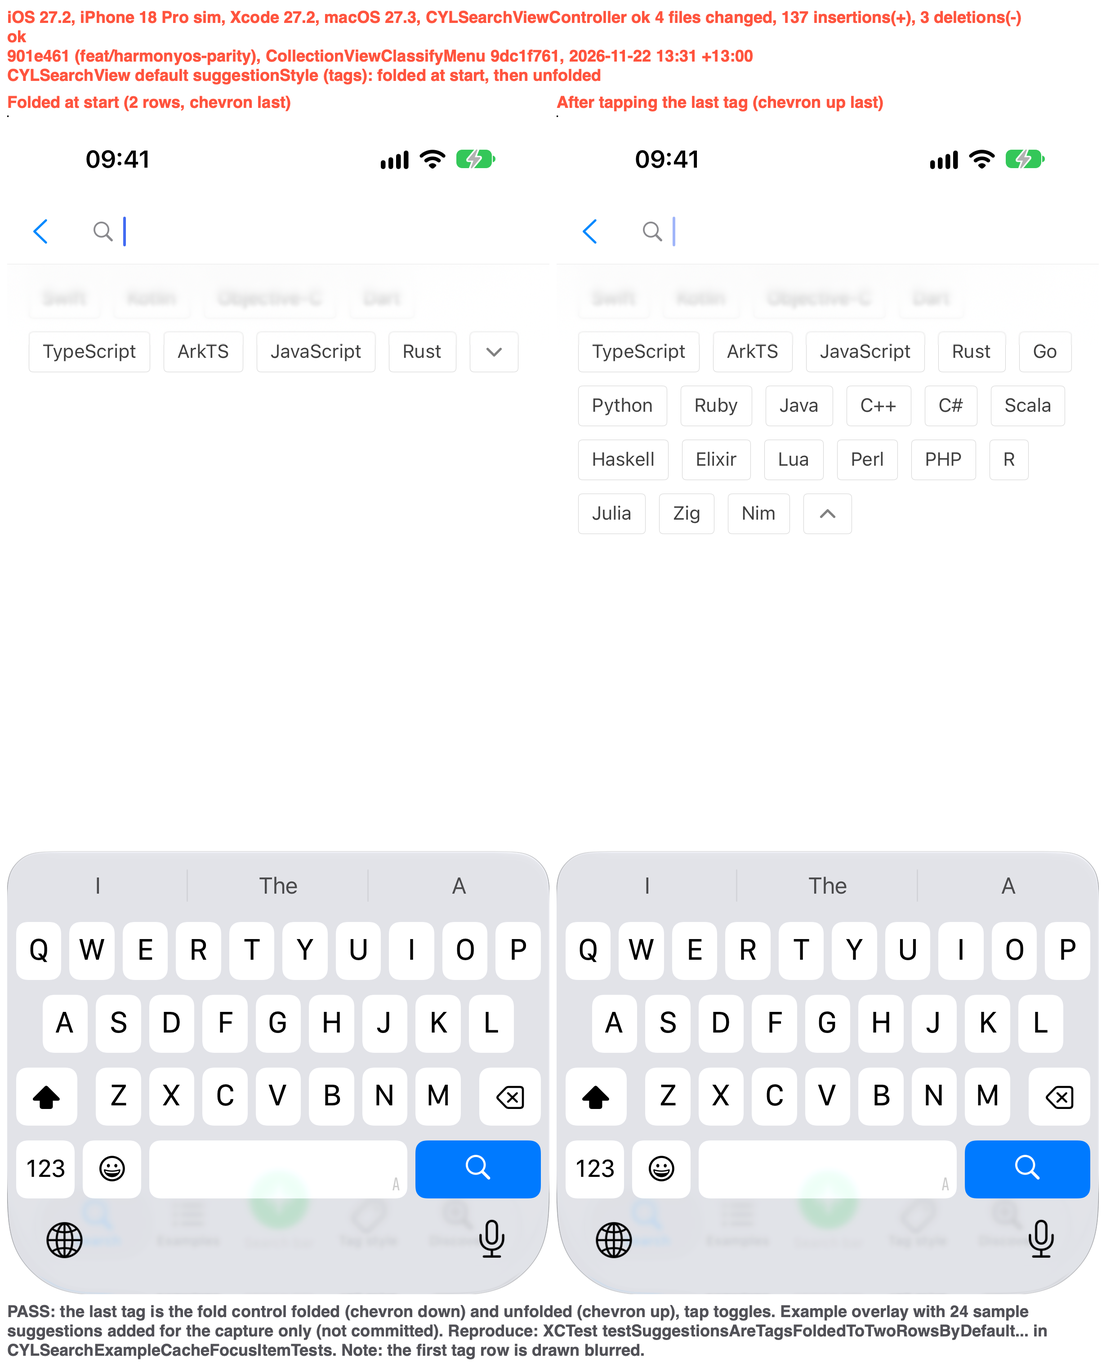
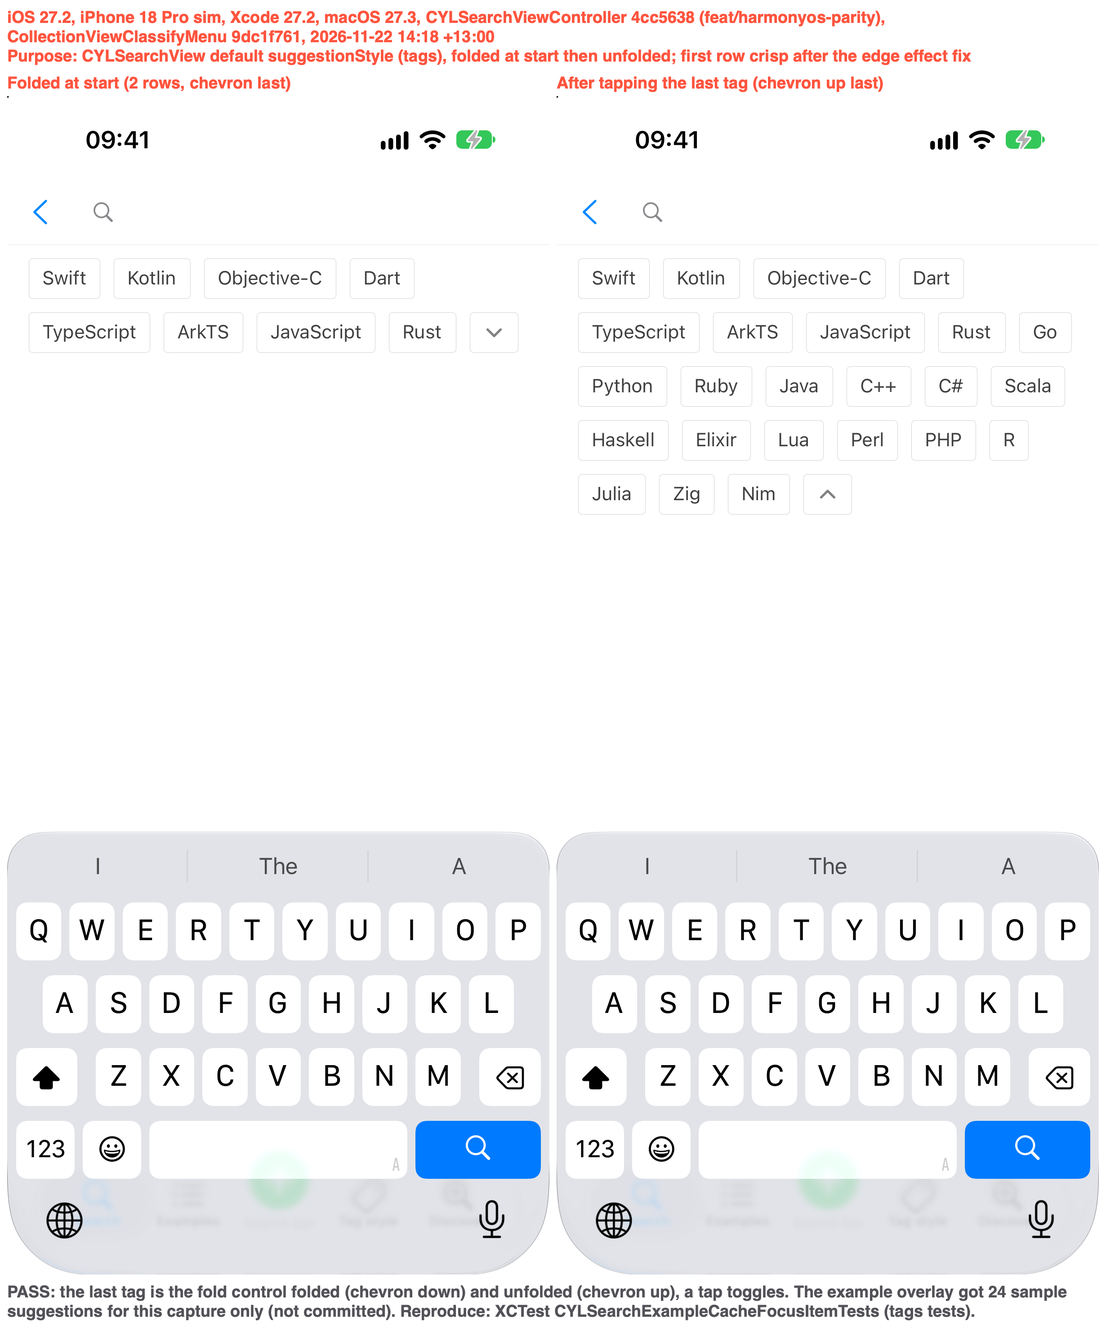
docs: 📝 tags default: review fixes, clean screenshots
Screenshots regenerated with clean headers (the iOS first row is crisp after the edge effect
fix); results of the three iOS simulators, React Native jest and tsc; the Android 5 px row cut
is traced to CollectionViewClassifyMenu's CYLTagListView and left as a TODO.

By  @ChenYilong <luohanchenyilong@163.com>

diff --git a/docs/tag-view-suggestions.md b/docs/tag-view-suggestions.md
@@ -293,6 +293,238 @@ CollectionViewClassifyMenu).
   tap on it toggles the folding. **All tags fit the folded rows: the packaged control hides itself** (`CYLTagListView.canFoldSection`
   is false when the rows do not exceed the folded rows; the mini program and HarmonyOS follow the same rule). The core adds no
   control of its own; a different behavior belongs in CollectionViewClassifyMenu. Tests pin the current behavior.
+- Tests (rerun 2026-11-22 after the iOS fix): iOS 17.5 sim 144 of 144; iOS 27.2 sim 144 tests, 1 flaky failure (`testI4ShortListHeaderSettlesFullyShownOrHidden`, passes alone); iOS 26.5 sim 144 tests, 1 failure (`CYLSearchBarStyleTests.testB7CancelDoesNotJitterWhenLeavingSearch`: a bar-only test that never touches `CYLSearchView`, fails alone too, not caused by this change; another session handles B7);
+  Android `:cylsearch:testDebugUnitTest` and `:app:testDebugUnitTest` green; mini program `npm test` 86 of 86; Flutter `flutter test` 18 of 18; React Native `jest` 10 of 10 and `tsc` clean;
+  HarmonyOS hypium on the local Mac emulator (arm64): `CYLSearchCore` 22 of 22 (new `suggestionStyleDefaultsToFoldedTags`), `CYLSearchQMUIPort` 12 of 12; the `CYLSearchUI` suite hung (no result after 100 s, also while an older `aa test` runner stayed hung on the emulator; not attributed to this change, rerun needed).
+- iOS first-row blur: FIXED in the core (commit `4cc5638`). Cause: on iOS 26 and later the tag list's scroll view draws a scroll edge effect (a blur) on its top edge, which blurred the first tag row right under the bar. `CYLSearchView` now hides `topEdgeEffect` of the tag list's scroll views (`#available(iOS 26.0, *)`); the frame check shows the tag list starts below the divider. Test: `testTagSuggestionsStartBelowTheSearchBarWithoutAnEdgeBlur`.
+- Android first and last tag rows cut by about 5 px: NOT fixed, located in CollectionViewClassifyMenu's Android `CYLTagListView` (not the core's layout). The rows between are whole, and the first row's top edge and the last row's bottom edge are missing, as if the list's content were taller than its measured height and scrolled by about 5 px. A margin or padding change in `CYLSearchView` made no difference (tried, reverted). Next step, in CollectionViewClassifyMenu: compare `heightThatFitsWidth` with `computeFrames`' `totalHeight` for a folded inline fold control.
+- Screenshots (originals), from top to bottom: list style, tag style, tag style after tapping "Android".
+
+    ![List style](assets/android-suggestions-list-style.png)
+
+    ![Tag style](assets/android-suggestions-tag-style.png)
+
+    ![Tag tapped](assets/android-suggestions-tag-picked.png)
+
+| Field | Value |
+|:---|:---|
+| Platform | Android (Kotlin, `android/merged`) |
+| Host | macOS 27.3 (26C5035r), JDK 17.0.21, Gradle 9.3.1, AGP 8.7.3, Kotlin 2.0.21 |
+| Emulator | `CYL_API35_arm64`, Android 15 (API 35), arm64-v8a, 1080 × 2400 |
+| SDK | compileSdk / targetSdk 35, minSdk 23 |
+| Repository | [`ffac758`](https://github.com/ChenYilong/CYLSearchViewController/commit/ffac758) on `feat/swift-core`; CYLTabBarController `f410fa7`, CollectionViewClassifyMenu `eb3590e` |
+| Taken | 2026-11-12 21:30–21:40 NZDT |
+  - The iOS side: DONE (2026-11-12, `e1a771a`; the tag-style demos 2026-11-14, the next entry).
+
+## DONE (2026-11-14; TODO 2026-11-12): tag-style suggestion demos copied from CollectionViewClassifyMenu, iOS first
+
+- Context: refines the iOS TODO at the top of this document. CollectionViewClassifyMenu already implements tag
+  pages (the user's screenshots below): a search page with "Recent searches" tags (a fold button at the end of the
+  second row, a trash button), a two-column "Discover" list with a "hot" badge, the camera and Search buttons in the
+  field, and a voice button at the bottom; and a tag editor with a search field and tag sections. Android has
+  `CYLSearchView.suggestionStyle` (List / Tags) and the List style / Tag style tabs.
+- Requirements:
+  1. Add demos that show the search suggestions as tags; copy what CollectionViewClassifyMenu already implements
+     (the screenshots show the effect).
+  2. Use the new style property (`suggestionStyle`) and the new dependency layout: CollectionViewClassifyMenu as a
+     sub-dependency (`docs/sub-repositories.md`).
+  3. In the example, the different demo pages are told apart by the empty tab items of CYLTabBarController (new tab
+     items with no content yet).
+  4. iOS first; then Android and the cross-platform versions (React Native, Flutter) with the same requirements.
+- Screenshots (the user's), top to bottom: the discover search page; its states in four languages; the tag editor.
+
+  ![Discover search page](assets/user-2026-11-12-classifymenu-discover-search.png)
+
+  ![Discover states](assets/user-2026-11-12-classifymenu-discover-states.jpg)
+
+  ![Tag editor](assets/user-2026-11-12-classifymenu-tag-editor.jpg)
+
+- Prompt (verbatim): "新增tag 形式展示备选搜索内容的样式demo，你可以直接从CollectionViewClassifyMenu文件夹  中复制已经实现的内容，具体代码效果见截图，使用我们的新建的样式属性，以及新组织的 依赖关系 使用 CollectionViewClassifyMenu作为子依赖。进行代码改造。使用example中cyltabbarcontroller中的 空的没有内容的tabbaritem进行区分上面的不同演示页面。先实现iOS端展示，然后再 按照相同要求执行其他平台比如android和跨端平台rn flutter。continue"
+- Prompt (English): "Add a style demo that shows the candidate search content as tags. You can copy what is already
+  implemented in the CollectionViewClassifyMenu folder (see the screenshots for the effect), use our new style
+  property and the newly organized dependency, with CollectionViewClassifyMenu as a sub-dependency, and rework the
+  code. Use the empty tab items of the example's CYLTabBarController to tell the demo pages apart. Implement iOS
+  first, then the other platforms, Android and the cross-platform React Native and Flutter, with the same
+  requirements. Continue."
+- Progress, iOS: DONE (2026-11-12, [`e1a771a`](https://github.com/ChenYilong/CYLSearchViewController/commit/e1a771a)).
+  - Core: `CYLSearchView.suggestionStyle` (`CYLSearchSuggestionStyle.list` / `.tags`) and `suggestionsTagView`
+    (CollectionViewClassifyMenu's `CYLTagListView`), the same option as Android; a tapped tag fills the query and is
+    reported like a row.
+  - Sub-dependency: `s.dependency 'CollectionViewClassifyMenu'` in the podspec; the Podfile pins its newest commit
+    `e550a01` (`:git` + `:commit`). Its podspec makes it a static framework, so the app links pods as static
+    frameworks (`use_frameworks! :linkage => :static`); `scripts/pod-lint.sh` checks the pinned commit out into
+    `build/lint-specs/` and lints with `--include-podspecs` and `--use-static-frameworks` (it is not on trunk).
+    `pod lib lint` passes.
+  - Example: two new tab items in `CYLTabBarConfiguration.json`, titles in four languages: "Tag style"
+    (MaterialSearchView's six samples, the same suggestions and parameters as the list ports, shown as tags) and
+    "Discover" (`CYLSearchDiscoverViewController` and its data, copied from CollectionViewClassifyMenu's
+    `CYLMenuExample` at `e550a01`, its strings in an example-level `CYLSearchDiscover.bundle`; the back button shows
+    only when the page is pushed).
+  - Tests: 19/19 pass on iPhone 17 (tab bar with five pages and every tab key; the Discover search bar covers no
+    view at the default and the largest text size).
+  - Known: the "✨" after the Discover hint shows as a box on the freshly booted simulator (its emoji font); the
+    source is the same as CollectionViewClassifyMenu's.
+  - Screenshots (originals), top to bottom: the Tag style tab; its Default sample after typing "a"; the Discover tab.
+
+    ![Tag style tab](assets/ios-tag-style-menu.png)
+
+    ![Tag style, Default sample](assets/ios-tag-style-default.png)
+
+    ![Discover tab](assets/ios-discover-tab.png)
+
+| Field | Value |
+|:---|:---|
+| Platform | iOS (Swift core, Swift / Objective-C example) |
+| Host | macOS 27.3 (26C5035r), Xcode 27.2 (27B5028f) |
+| Simulator | iPhone 17, iOS 26.3 |
+| SDK | iOS SDK 27.2, Swift 5 language mode, deployment target iOS 15.0 |
+| Repository | [`e1a771a`](https://github.com/ChenYilong/CYLSearchViewController/commit/e1a771a) on `feat/swift-core`; CollectionViewClassifyMenu `e550a01` |
+| Taken | 2026-11-12 23:01–23:05 NZDT |
+- Progress, Android: DONE (2026-11-12, [`0c8e306`](https://github.com/ChenYilong/CYLSearchViewController/commit/0c8e306)).
+  - The tag style was already there (`CYLSearchView.suggestionStyle`, the List style / Tag style tabs).
+  - New Discover tab: `CYLSearchDiscoverFragment`, a Kotlin port of the iOS page with CollectionViewClassifyMenu's
+    Android `CYLTagListView` (inline fold chevron, two-column grid, More button, section accessory), the same data
+    and hot images (`assets/CYLSearchDiscover.bundle`) and texts in four languages. CollectionViewClassifyMenu is now
+    pinned to `e550a01` on Android too.
+  - Library fix found here: `CYLSearchBarView` keeps an accessory view's own size (a 1 dp divider filled the field).
+  - Verified on the emulator: Recent searches expand to every search, a tapped tag fills the query, More shows other
+    topics; no crash. Not a difference to keep: long titles are cut by the cell's edge; see the bug TODO below.
+  - Screenshots (originals), top to bottom: the Discover tab; Recent searches expanded; Discover after More (cropped).
+
+    ![Android Discover tab](assets/android-discover-tab.png)
+
+    ![Recent searches expanded](assets/android-discover-expanded.png)
+
+    ![Discover after More](assets/android-discover-refreshed.png)
+
+| Field | Value |
+|:---|:---|
+| Platform | Android (Kotlin, `android/merged`) |
+| Host | macOS 27.3 (26C5035r), JDK 17.0.21, Gradle 9.3.1, AGP 8.7.3, Kotlin 2.0.21 |
+| Emulator | `CYL_API35_arm64`, Android 15 (API 35), arm64-v8a, 1080 × 2400 |
+| SDK | compileSdk / targetSdk 35, minSdk 23 |
+| Repository | [`0c8e306`](https://github.com/ChenYilong/CYLSearchViewController/commit/0c8e306) on `feat/swift-core`; CollectionViewClassifyMenu `e550a01` |
+| Taken | 2026-11-12 23:24–23:27 NZDT |
+- Next: React Native and Flutter. Neither version of this library exists yet; they are built by the cross-platform
+  TODO in [android-and-cross-platform.md](android-and-cross-platform.md) (Flutter first), and get the tag style and
+  the Discover page there.
+- Flutter: DONE (2026-11-13, [`40f9765`](https://github.com/ChenYilong/CYLSearchViewController/commit/40f9765)). The
+  plugin's `CYLSearchView` takes `suggestionStyle: CYLSearchSuggestionStyle.tags`, and its new `CYLTagListView` widget
+  is CollectionViewClassifyMenu's native tag list; the example has a Tag style tab and a Discover tab built on it (same
+  data as iOS and Android). Details and screenshots: [android-and-cross-platform.md](android-and-cross-platform.md).
+- React Native: DONE (2026-11-14). `react-native-cylsearch` has `suggestionStyle="tags"` on `CYLSearchView` and the
+  `CYLTagListView` component (CollectionViewClassifyMenu's native tag list, folded to two rows behind the inline
+  chevron); the example has a Tag style tab and a Discover tab on the same data. Screenshots (Android and iOS):
+  [android-and-cross-platform.md](android-and-cross-platform.md).
+- Status: DONE (2026-11-14): iOS, Android, Flutter and React Native.
+
+## DONE (2026-11-12): Android tag cells cut their text at the cell edge
+
+- Context: the Android Discover tab (`CYLSearchDiscoverFragment`, CollectionViewClassifyMenu's Android
+  `CYLTagListView` with `CYLMenuStyle.gridStyleWithNumberOfItemsPerRow(2)`, pinned at `e550a01`). Long topic titles
+  ("Switching your cat's food", "Saving money on train tickets", "Designers' favorite palettes") run to the cell's edge
+  and are cut mid-letter. On iOS the same grid keeps a gap and ends a long title with "…". I first wrote this off as a
+  difference of the library; the user disagreed: it is a bug.
+- Requirements:
+  1. Keep a gap between the text and the cell's edge (the cell's content insets / margin, as on iOS).
+  2. A title that does not fit ends with an ellipsis ("…"), on one line.
+  3. Where the cut comes from CollectionViewClassifyMenu's Android tag layout (`CYLTagButton` / grid cell
+     measuring), fix it there, push it, then update `cyl.classifymenu.commit` here (AGENTS.md, "Sub-repositories");
+     check the other tag cells too (Recent searches, the Tag style tab).
+  4. Screenshots after the fix, labeled; mark this TODO done.
+- Screenshot (the user's):
+
+  ![Android Discover titles cut at the cell edge](assets/user-2026-11-12-android-discover-clipped-titles.png)
+
+- Prompt (verbatim): "No  I don't think so. Android tests pass (9/9). The alignment table has grown to 299 rows (the new iOS suggestionStyle API), all aligned. Regenerating it and writing the Android progress with screenshots: tag cell text are cut by boundary of cell , it should got gap between text and boundary of cell, if text is too long it should show text end with ... please mark this bug as TODO in docs files related."
+- Status: DONE (2026-11-12, [`74b75a6`](https://github.com/ChenYilong/CYLSearchViewController/commit/74b75a6)).
+  - Cause, in CollectionViewClassifyMenu's Android `CYLTagButton`: its children were measured with an `UNSPECIFIED`
+    width, so the title `TextView` kept a text layout as wide as the whole title; the narrower frame then clipped it
+    and `ellipsize = END` never applied.
+  - Fix there (sub-repository rule): `place()` measures each child at its frame before laying it out; every tag cell
+    uses it.
+  - Core, not example: the user asked again (2026-11-12, "请在core层面修复该问题，不要在example修复！" — "fix it in the core, not
+    in the example"). The fix is in CollectionViewClassifyMenu's core library (`CYLTagButton`, used by every tag cell);
+    no example code changed for it (`CYLSearchDiscoverFragment` is untouched by `74b75a6` / `f972416`). [ChenYilong/CollectionViewClassifyMenu#17](https://github.com/ChenYilong/CollectionViewClassifyMenu/pull/17),
+    commit `f972416`, with `CYLTagTitleEllipsisTest` (fails without the fix) and its 30 library tests passing.
+  - Pinned here to `f972416` on Android and iOS; Android builds from the pinned checkout, iOS 19/19, `pod lib lint`
+    passes.
+  - After (cropped, Android 15 emulator `CYL_API35_arm64`, API 35, host macOS 27.3, built from
+    [`74b75a6`](https://github.com/ChenYilong/CYLSearchViewController/commit/74b75a6)'s pin, 2026-11-12 23:5x NZDT): long titles
+    end with "…" inside the cell, with a gap before the next column.
+
+    ![Android Discover titles end with an ellipsis](assets/android-discover-titles-ellipsis.png)
+
+## BUG DONE (2026-11-13): the tag list lost its fold button on later platforms
+
+- Context: the first implementations, the iOS Discover page (`CYLSearchDiscoverViewController`:
+  `CYLTagListView(foldControl: CYLMenuFoldControl(position: .inline, content: .icon))`) and its Android port
+  (`CYLSearchDiscoverFragment`: an inline icon fold control, `defaultVisibleRows = 2`), end the recent-search tags with a
+  fold button (a chevron as the last tag: two rows folded, all rows unfolded). Later work dropped it: the core's tag
+  suggestion style creates `suggestionsTagView` with `CYLTagListView(foldControl: nil)` (iOS) and without one (Android),
+  and the Flutter `CYLTagListView` widget and the Flutter Discover page have no fold button (first screenshot below:
+  Flutter Discover, all ten recent searches shown; second: the Android reference, folded with the chevron, then
+  unfolded with the up chevron).
+
+  ![Flutter Discover without the fold button](assets/fold-missing-flutter-discover.png)
+
+  ![Android Discover with the fold button (reference)](assets/fold-reference-android-discover.png)
+
+- Requirements:
+  1. The core supports the fold button through parameters an app can customize: on `CYLSearchView` (the tag
+     suggestion style) the fold control (position, content) and the number of rows shown while folded, on iOS and
+     Android; the Flutter `CYLTagListView` widget and `CYLSearchView` widget pass the same parameters.
+  2. Check every example page in the screenshots that shows a tag list and set the parameters, so the last item of the
+     tag list is the fold button, as in the iOS example.
+  3. Reference: this project's iOS example (`CYLSearchDiscoverViewController`).
+- Prompt (verbatim): "你在不同平台实现搜索备选项列表样式为collectionView的时候，在某一节点，忘记了这个有一个折叠功能。只有你在前期实现的时候，加了这个功能。请确保core核心代码 使用参数支持该样式的外部自定义，再排查所有example的截图中的页面，更新该参数。预期效果是tag list的最后一项是 折叠交互按钮。参考本项目iOS example的实现。记录到文档中，标记BUG TODO"
+- Prompt (English): "When you implemented the suggestion list in the collection view (tag) style on the different
+  platforms, at some point you forgot that it has a fold feature; only your early implementation added it. Make sure
+  the core supports customizing this style from outside through parameters, then check the pages in all the examples'
+  screenshots and set the parameter. Expected: the last item of the tag list is the fold button. Refer to this
+  project's iOS example. Record it in the docs and mark it BUG TODO."
+- Result (2026-11-13):
+  - Core parameters on `CYLSearchView` (tag suggestion style), iOS and Android: `suggestionsFoldControl`
+    (CollectionViewClassifyMenu's `CYLMenuFoldControl`; default an inline icon, the chevron as the last tag) and
+    `suggestionsFoldedRowCount` (default 2; 0 shows every row). On iOS the search view relays out on fold changes
+    through a private `CYLMenuDelegate` object, so it gains no public conformance.
+  - Flutter: `CYLSearchView(suggestionsFoldControlPosition:, suggestionsFoldControlContent:, suggestionsFoldedRowCount:)`
+    and `CYLTagListView(foldControlPosition:, foldControlContent:, foldedRowCount:)` (enums `CYLTagFoldControlPosition`,
+    `CYLTagFoldControlContent`); the native tag list reports its height again after folding and unfolding.
+  - Examples set the parameters on every page with a tag list: iOS MaterialSearchView samples (the Tag style tab),
+    Android `CYLSuggestionStyleFragment`, the Flutter Tag style demo and Discover page; the iOS and Android Discover
+    pages already had it.
+  - Tests: iOS 25/25 (`testTagSuggestionsEndWithTheFoldButtonByDefault`), Android 15/15
+    (`tagSuggestionsEndWithTheFoldButtonByDefault`), Flutter plugin 7/7 (parameters), both Flutter builds.
+  - Verified (Flutter, iPhone 17 simulator iOS 26.3, 2026-11-13 19:0x NZDT), top to bottom: the Discover page folded
+    to two rows with the chevron ("More") as the last tag; after tapping it, every recent search with the up chevron
+    ("Less") last, and the page below moved down.
+
+    ![Flutter Discover: folded, then unfolded](assets/fold-fixed-flutter-ios.png)
+
+  - Android (Flutter, `CYL_API35_arm64` read-only instance, Android 15 / API 35, 2026-11-13 19:42 NZDT): the first run
+    showed the folded list one row short (the row with the chevron clipped): the plugin reported `heightThatFitsWidth`
+    before the folded layout settled. It now reports the larger of that and the list's own `contentHeight`, which the
+    list updates through `menuDidChangeContentHeight`. Left to right: folded (two rows, the chevron last), unfolded
+    (the up chevron last), folded again.
+
+    ![Flutter Discover on Android: folded, unfolded, folded again](assets/fold-fixed-flutter-android.png)
+
+- Status: `BUG DONE`.
+
+
+## DONE (2026-11-22): tags are the default suggestion style, folded, the fold control as the last tag
+
+- Task log: [task-log.md](task-log.md), "tags as the default suggestion style". Branch `feat/harmonyos-parity` (PR #11).
+- Change: `CYLSearchView.suggestionStyle` defaults to tags on iOS, Android, HarmonyOS, the mini program (core and `cyl-search`
+  property), React Native (`cylSearchViewSuggestionStyle`) and Flutter. Every other default is unchanged: CollectionViewClassifyMenu's
+  `CYLTagListView` (`suggestionsTagView`), the inline fold control (position tail, content icon), 2 folded rows
+  (`suggestionsFoldedRowCount`), so the tags start folded. Tests that exercise the list, and the list replicas (iOS
+  `CYLOriginalSearchDemoViewController`, Android MaterialSearchView sample), set the list style explicitly.
+- Property of the packaged style, checked by a test per platform: folded or unfolded, the last tag is the fold control and a
+  tap on it toggles the folding. **All tags fit the folded rows: the packaged control hides itself** (`CYLTagListView.canFoldSection`
+  is false when the rows do not exceed the folded rows; the mini program and HarmonyOS follow the same rule). The core adds no
+  control of its own; a different behavior belongs in CollectionViewClassifyMenu. Tests pin the current behavior.
 - Tests: iOS 27.2 sim (140 of 143 earlier run: the 2 list failures fixed by setting `.list`; `CYLSearchExampleCacheFocusItemTests` 10 of 10
   after the new tests; one lifecycle jitter test failed once under parallel load and passed in the first run);
   Android `:cylsearch:testDebugUnitTest` and `:app:testDebugUnitTest` green; mini program `npm test` 86 of 86; Flutter `flutter test` 18 of 18;
@@ -301,8 +533,7 @@ CollectionViewClassifyMenu).
   React Native: unit test added (`cylSearchViewSuggestionStyle`), not run (no node_modules; the RN agent runs jest).
 - Screenshots (originals, stitched):
   ![iOS tags default](assets/tags-default-ios-20261122.png)
-  iOS 27.2, iPhone 18 Pro simulator, Xcode 27.2, macOS 27.3, CYLSearchViewController 901e461, CollectionViewClassifyMenu 9dc1f761, 2026-11-22 13:31 +13:00: default suggestions folded, then unfolded.
+  iOS 27.2, iPhone 18 Pro simulator, Xcode 27.2, macOS 27.3, CYLSearchViewController 4cc5638, CollectionViewClassifyMenu 9dc1f761, 2026-11-22 14:18 +13:00: default suggestions folded, then unfolded (first row crisp).
   ![Android tags default](assets/tags-default-android-20261122.png)
-  Android 15 API 35, CYL_API35_test emulator, macOS 27.3, JDK 17, CYLSearchViewController ff73ebd, 2026-11-22 13:44 +13:00: default suggestions folded, then unfolded.
-- Observed, not fixed: iOS draws the first tag row blurred under the overlay's search bar region; Android clips the first and last tag rows by a few pixels. Both look like layout defects of the tag view inside the page (check against CollectionViewClassifyMenu).
-- TODO (Windows session): test the mini program on a device (WeChat DevTools); rerun the HarmonyOS `CYLSearchUI` suite; React Native jest and typecheck.
+  Android 15 API 35, CYL_API35_test emulator, macOS 27.3, JDK 17, CYLSearchViewController 8df22f8, 2026-11-22 14:21 +13:00: default suggestions folded, then unfolded.
+- TODO: the mini program device test (Windows session, WeChat DevTools); rerun the HarmonyOS `CYLSearchUI` suite; fix the Android 5 px row cut in CollectionViewClassifyMenu and pin it.

diff --git a/docs/task-log.md b/docs/task-log.md
@@ -924,9 +924,9 @@ begins and becomes `DONE` when it ends.
   replica screens set the list style explicitly; suites green; labelled screenshots folded / unfolded. 60 = iOS and
   Android done with tests.
 - **Status**: in progress.
-- **Status (2026-11-22, DONE except the TODOs): score 90/100.** Defaults changed on iOS, Android, HarmonyOS, the mini program, React Native and Flutter;
+- **Status (2026-11-22, DONE except the TODOs): score 94/100 (after the review: iOS blur fixed, header fixed, three iOS sims, React Native jest).** Defaults changed on iOS, Android, HarmonyOS, the mini program, React Native and Flutter;
   tests per platform; labelled screenshots for iOS and Android; details, results and the all-fit finding in
-  [tag-view-suggestions.md](tag-view-suggestions.md). TODO: the mini program device test (Windows session), the HarmonyOS `CYLSearchUI` suite rerun, React Native jest, the blurred first row (iOS) and clipped rows (Android) in the tag view.
+  [tag-view-suggestions.md](tag-view-suggestions.md). TODO: the mini program device test (Windows session), the HarmonyOS `CYLSearchUI` suite rerun, the Android 5 px cut of the first and last tag row (CollectionViewClassifyMenu `CYLTagListView`).
 
 
 ## DONE (2026-11-22): sort the instruction files by tag, 200 lines each, details in docs/instructions
